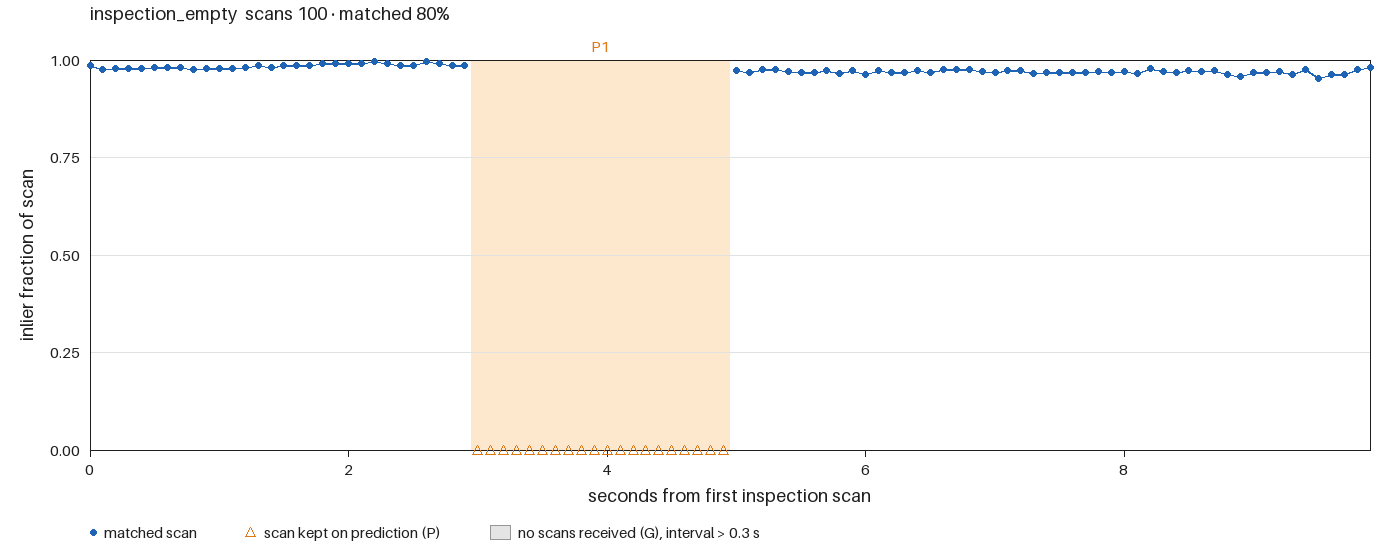
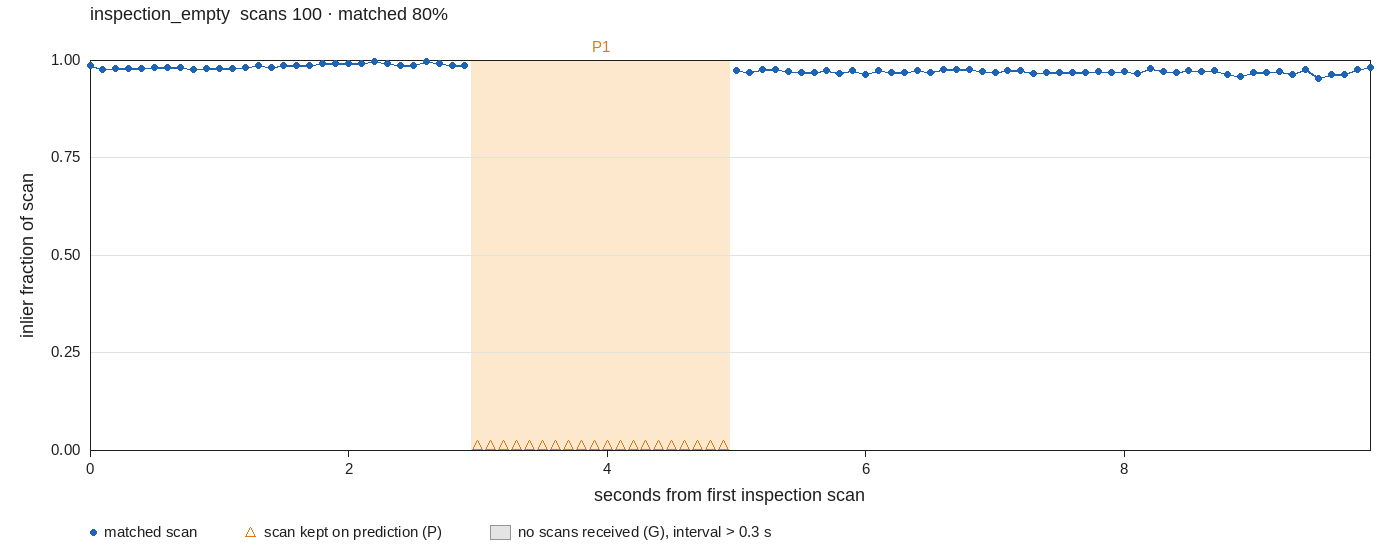
Не затирать вход и не соединять точки через разрыв на графике потерь
Метки и порог окна берутся по всей записи, обрезанные участки помечены.
Таблица участков пишется в <имя>.intervals.csv. CSV с BOM и ';' читается.
Порог разрыва можно задать явно (--gap-s). Pillow>=10.1 для шрифта по размеру.

diff --git a/mgts_nav/timeline.py b/mgts_nav/timeline.py
@@ -26,11 +26,16 @@ ORANGE_BAND, GREY_BAND, GRID = (253, 232, 205), (228, 228, 228), (225, 225, 225)
 def read_trajectory(path):
     """Rows of a localize trajectory.csv with their 1-based line numbers in the file."""
     rows = []
-    with Path(path).open(newline='', encoding='utf-8') as f:
-        reader = csv.DictReader(f)
+    # utf-8-sig: a CSV re-saved by Excel or PowerShell 5.1 starts with a BOM.
+    with Path(path).open(newline='', encoding='utf-8-sig') as f:
+        header = f.readline()
+        f.seek(0)
+        delimiter = ';' if header.count(';') > header.count(',') else ','
+        reader = csv.DictReader(f, delimiter=delimiter)
         missing = {'t', 'status', 'inlier_fraction'} - set(reader.fieldnames or ())
         if missing:
-            raise ValueError(f'{path} lacks columns {sorted(missing)}; use the output of localize or solve')
+            raise ValueError(f'{path} lacks columns {sorted(missing)} (header: {header.strip()!r}); '
+                             'use trajectory.csv written by localize or solve')
         for row in reader:
             rows.append(dict(line=reader.line_num, t=float(row['t']), status=row['status'],
                              inlier_fraction=float(row['inlier_fraction'])))
@@ -64,7 +69,7 @@ def intervals(rows, quality, t0=None):
 
 
 def _font(size):
-    for name in ('DejaVuSans.ttf', 'arial.ttf'):
+    for name in ('DejaVuSans.ttf', 'arial.ttf', 'LiberationSans-Regular.ttf'):
         try:
             return ImageFont.truetype(name, size)
         except OSError:
@@ -104,11 +109,14 @@ def render(rows, quality, found, output, title='', t0=None):
     draw = ImageDraw.Draw(image)
     small, normal = _font(15), _font(18)
 
+    def span(item):  # intervals clipped by a window still start and end inside the frame
+        return px(max(item['start_rel_s'], lo)), px(min(item['end_rel_s'], hi))
+
     for item in found:  # bands first so points stay on top
-        a, b = px(item['start_rel_s']), px(item['end_rel_s'])
+        a, b = span(item)
         if item['kind'] == 'prediction_run':
             half = max(3.0, (x1 - x0) / max(len(rows), 1) / 2)
-            draw.rectangle([a - half, y1, b + half, y0], fill=ORANGE_BAND)
+            draw.rectangle([max(a - half, x0), y1, min(b + half, x1), y0], fill=ORANGE_BAND)
         else:
             w, h = max(int(b - a), 1), y0 - y1
             band = Image.new('RGB', (w, h), GREY_BAND)
@@ -127,15 +135,25 @@ def render(rows, quality, found, output, title='', t0=None):
     label = Image.new('RGB', (y0 - y1, 24), 'white')
     ImageDraw.Draw(label).text(((y0 - y1) / 2, 12), 'inlier fraction of scan', fill=INK, font=normal, anchor='mm')
     image.paste(label.rotate(90, expand=True), (14, y1))
+    # Up to two label rows above the frame; a label that would overlap both is left to the CSV.
+    row_end = [-1e9, -1e9]
     for item in found:
-        a, b = px(item['start_rel_s']), px(item['end_rel_s'])
-        draw.text(((a + b) / 2, y1 - 4), item['label'], fill=ORANGE if item['label'][0] == 'P' else GREY,
-                  font=small, anchor='md')
+        a, b = span(item)
+        text = item['label'] + ('*' if item.get('clipped') else '')
+        w = draw.textlength(text, font=small)
+        x = min(max((a + b) / 2, x0 + w / 2), x1 - w / 2)
+        for level in (0, 1):
+            if x - w / 2 > row_end[level] + 4:
+                row_end[level] = x + w / 2
+                draw.text((x, y1 - 4 - 18 * level), text, fill=ORANGE if text[0] == 'P' else GREY,
+                          font=small, anchor='md')
+                break
 
     threshold = quality['gap_threshold_s']
     for prev, cur, a, b in zip(rows, rows[1:], rel, rel[1:]):
         joined = prev['status'] == cur['status'] == 'matched'
-        if joined and (threshold is None or b - a <= threshold):
+        # Without a cadence (fewer than three scans) no interval is known to be continuous.
+        if joined and threshold is not None and b - a <= threshold:
             draw.line([(px(a), py(prev['inlier_fraction'])), (px(b), py(cur['inlier_fraction']))],
                       fill=BLUE, width=2)
     for row, s in zip(rows, rel):
@@ -143,7 +161,7 @@ def render(rows, quality, found, output, title='', t0=None):
         if row['status'] == 'matched':
             draw.ellipse([x - 3, y - 3, x + 3, y + 3], fill=BLUE)
         else:
-            draw.polygon([(x, y - 5), (x - 5, y + 4), (x + 5, y + 4)], outline=ORANGE)
+            draw.polygon([(x, y - 10), (x - 5, y - 1), (x + 5, y - 1)], outline=ORANGE)  # stands on its value
 
     matched = quality['matched_scan_fraction']
     draw.text((x0, 20), f'{title}  scans {len(rows)} · matched {matched:.0%}', fill=INK, font=normal, anchor='ls')
@@ -163,30 +181,50 @@ def render(rows, quality, found, output, title='', t0=None):
 
 
 def write_intervals(found, path):
-    fields = ['label', 'kind', 'start_rel_s', 'end_rel_s', 'start_s', 'end_s', 'scans', 'first_line', 'last_line']
+    fields = ['label', 'kind', 'start_rel_s', 'end_rel_s', 'start_s', 'end_s', 'scans', 'first_line', 'last_line',
+              'clipped']
     with Path(path).open('w', newline='', encoding='utf-8') as f:
         writer = csv.DictWriter(f, fields, extrasaction='ignore')
         writer.writeheader()
         writer.writerows(found)
 
 
-def plot(trajectory, output, window=None, title=None):
-    """Write PNG and the interval table next to it; return the intervals."""
+def table_path(output):
+    output = Path(output)
+    return output.with_name(output.stem + '.intervals.csv')
+
+
+def plot(trajectory, output, window=None, title=None, gap_threshold_s=None):
+    """Write PNG and the interval table beside it; return the intervals.
+
+    Intervals, labels and the gap threshold always come from the whole record, so a
+    window shows the same P/G labels as the full plot; a clipped interval is marked.
+    """
+    trajectory, output = Path(trajectory), Path(output)
+    table = table_path(output)
+    for target in (output, table):
+        if target.resolve() == trajectory.resolve():
+            raise ValueError(f'Output {target} would overwrite the input trajectory')
     rows = read_trajectory(trajectory)
     t0 = rows[0]['t']
+    quality = inspection_quality([Estimate(r['t'], None, r['status'], r['inlier_fraction']) for r in rows],
+                                 gap_threshold_s=gap_threshold_s)
+    found = intervals(rows, quality, t0)
+    label = title if title is not None else str(trajectory.parent.name)
     if window is not None:
         start, end = window
-        rows = [row for row in rows if start <= row['t'] - t0 <= end]
-        if not rows:
+        shown = [row for row in rows if start <= row['t'] - t0 <= end]
+        if not shown:
             raise ValueError(f'No scans between {start} and {end} s from the first scan')
-    quality = inspection_quality([Estimate(r['t'], None, r['status'], r['inlier_fraction']) for r in rows])
-    found = intervals(rows, quality, t0)
-    output = Path(output)
-    label = title if title is not None else str(Path(trajectory).parent.name)
-    if window is not None:
+        lo, hi = shown[0]['t'] - t0, shown[-1]['t'] - t0
+        found = [item for item in found if item['end_rel_s'] >= lo and item['start_rel_s'] <= hi]
+        for item in found:
+            item['clipped'] = item['start_rel_s'] < lo or item['end_rel_s'] > hi
+        rows = shown
         label += f'  lines {rows[0]["line"]}-{rows[-1]["line"]}'
+        quality = dict(quality, matched_scan_fraction=sum(r['status'] == 'matched' for r in rows) / len(rows))
     render(rows, quality, found, output, label, t0)
-    write_intervals(found, output.with_suffix('.csv'))
+    write_intervals(found, table)
     return found
 
 
@@ -232,6 +270,8 @@ def main():
     parser.add_argument('--out', type=Path, help='PNG path; the interval table is written beside it as .csv')
     parser.add_argument('--from', dest='start', type=float, help='window start, s from the first scan')
     parser.add_argument('--to', dest='end', type=float, help='window end, s from the first scan')
+    parser.add_argument('--gap-s', type=float,
+                        help='gap threshold, s (default: three median scan intervals, as in summary.json)')
     parser.add_argument('--demo', type=Path, metavar='OUT',
                         help='build the synthetic demo and a copy with a lidar outage, plot both')
     args = parser.parse_args()
@@ -246,13 +286,16 @@ def main():
         if args.start is not None or args.end is not None:
             window = (args.start if args.start is not None else float('-inf'),
                       args.end if args.end is not None else float('inf'))
-        out = args.out or path.with_name('timeline.png')
-        found = plot(path, out, window)
-        print(f'{out}\n{out.with_suffix(".csv")}')
+        name = 'timeline.png' if window is None else ('timeline-' + ('start' if args.start is None else f'{args.start:g}') + '-'
+                                                 + ('end' if args.end is None else f'{args.end:g}') + '.png')
+        out = args.out or path.with_name(name)
+        found = plot(path, out, window, gap_threshold_s=args.gap_s)
+        print(f'{out}\n{table_path(out)}')
         for item in found:
-            print(f"{item['label']}: {item['start_rel_s']:.2f}-{item['end_rel_s']:.2f} s, "
+            print(f"{item['label']}{' (clipped)' if item.get('clipped') else ''}: "
+                  f"{item['start_rel_s']:.2f}-{item['end_rel_s']:.2f} s, "
                   f"lines {item['first_line']}-{item['last_line']} of {path}")
-    except (OSError, ValueError) as error:
+    except (OSError, ValueError, subprocess.CalledProcessError) as error:
         parser.exit(2, f'{error}\n')
 
 

diff --git a/tests/test_timeline.py b/tests/test_timeline.py
@@ -24,7 +24,7 @@ def test_intervals_name_prediction_runs_and_gaps_with_csv_lines(tmp_path):
         ('P1', 3, 4, 2), ('G1', 5, 6, 0)]
     assert found[0]['start_rel_s'] == pytest.approx(0.1)
     assert found[1]['end_rel_s'] == pytest.approx(1.3)
-    with (tmp_path / 'timeline.csv').open(encoding='utf-8') as f:
+    with (tmp_path / 'timeline.intervals.csv').open(encoding='utf-8') as f:
         table = list(csv.DictReader(f))
     assert [r['label'] for r in table] == ['P1', 'G1']
     # The listed lines really hold the interval boundaries in the source CSV.
@@ -72,3 +72,56 @@ def test_window_keeps_time_from_first_scan_of_the_record(tmp_path):
     path = write_csv(tmp_path / 'trajectory.csv', rows)
     found = timeline.plot(path, tmp_path / 'w.png', window=(2.0, 3.0))
     assert found[0]['start_rel_s'] == pytest.approx(2.5)
+
+
+def blue_between(png, t_a, t_b, t_span, value=0.5):
+    image = Image.open(png).convert('RGB')
+    width, height = image.size
+    x0, x1 = timeline.LEFT, width - timeline.RIGHT
+    y = round(timeline.TOP + (1 - value) * (height - timeline.BOTTOM - timeline.TOP))
+    x = round(x0 + ((t_a + t_b) / 2) / t_span * (x1 - x0))
+    return timeline.BLUE in [image.getpixel((x, yy)) for yy in range(y - 3, y + 4)]
+
+
+def test_two_scans_without_cadence_are_not_joined(tmp_path):
+    path = write_csv(tmp_path / 'two.csv', [(0.0, 'matched', 0.5), (10.0, 'matched', 0.5)])
+    timeline.plot(path, tmp_path / 'two.png')
+    assert not blue_between(tmp_path / 'two.png', 0, 10, 10)
+
+
+def test_explicit_gap_threshold_marks_gaps_in_short_records(tmp_path):
+    path = write_csv(tmp_path / 'three.csv', [(0.0, 'matched', 0.5), (0.1, 'matched', 0.5), (5.0, 'matched', 0.5)])
+    assert timeline.plot(path, tmp_path / 'a.png') == []
+    found = timeline.plot(path, tmp_path / 'b.png', gap_threshold_s=0.3)
+    assert [(i['label'], i['first_line'], i['last_line']) for i in found] == [('G1', 3, 4)]
+    assert not blue_between(tmp_path / 'b.png', 0.1, 5.0, 5.0)
+
+
+def test_outputs_never_overwrite_the_input(tmp_path):
+    path = write_csv(tmp_path / 'trajectory.csv', [(0.0, 'matched', 0.5), (0.1, 'matched', 0.5)])
+    before = path.read_bytes()
+    with pytest.raises(ValueError, match='overwrite'):
+        timeline.plot(path, tmp_path / 'trajectory.csv')
+    other = write_csv(tmp_path / 'run.intervals.csv', [(0.0, 'matched', 0.5)])
+    with pytest.raises(ValueError, match='overwrite'):
+        timeline.plot(other, tmp_path / 'run.png')
+    timeline.plot(path, tmp_path / 'timeline.png')
+    assert path.read_bytes() == before and (tmp_path / 'timeline.intervals.csv').exists()
+
+
+def test_window_keeps_labels_threshold_and_marks_clipped_intervals(tmp_path):
+    rows = [(t / 10, 'prediction_only' if t in (5, 6, 7, 20) else 'matched', 0.6) for t in range(40)]
+    rows = [r for r in rows if not 30 <= r[0] * 10 < 34]  # a gap 2.9 -> 3.4 s
+    path = write_csv(tmp_path / 'trajectory.csv', rows)
+    full = timeline.plot(path, tmp_path / 'full.png')
+    assert [i['label'] for i in full] == ['P1', 'P2', 'G1']
+    window = timeline.plot(path, tmp_path / 'win.png', window=(0.6, 3.0))
+    assert [(i['label'], i['clipped']) for i in window] == [('P1', True), ('P2', False), ('G1', True)]
+    assert (tmp_path / 'full.png').exists() and (tmp_path / 'full.intervals.csv').read_text(encoding='utf-8').count('\n') == 4
+
+
+def test_reads_csv_resaved_with_bom_and_semicolons(tmp_path):
+    text = 't;x;y;yaw;status;inlier_fraction\r\n0;0;0;0;matched;0.5\r\n0.1;0;0;0;prediction_only;0\r\n'
+    path = tmp_path / 'excel.csv'
+    path.write_bytes(text.encode('utf-8-sig'))
+    assert [i['label'] for i in timeline.plot(path, tmp_path / 'x.png')] == ['P1']

diff --git a/mgts_nav/quality.py b/mgts_nav/quality.py
@@ -5,8 +5,12 @@ from statistics import median
 import numpy as np
 
 
-def inspection_quality(estimates):
-    """Summarize the scan-rate output of track(); no reference poses are used."""
+def inspection_quality(estimates, gap_threshold_s=None):
+    """Summarize the scan-rate output of track(); no reference poses are used.
+
+    gap_threshold_s overrides the default of three median scan intervals, e.g. for short
+    records where the median does not describe the sensor rate.
+    """
     times = np.asarray([row.t for row in estimates], dtype=float)
     if not len(times) or not np.isfinite(times).all():
         raise ValueError('Inspection needs finite scan timestamps')
@@ -15,7 +19,12 @@ def inspection_quality(estimates):
         raise ValueError('Inspection scan timestamps must increase')
 
     # Gaps have no rows. Report them independently of consecutive rejected scans.
-    gap_threshold = 3 * float(np.median(intervals)) if len(intervals) >= 2 else None
+    if gap_threshold_s is not None:
+        if not gap_threshold_s > 0:
+            raise ValueError('Gap threshold must be positive')
+        gap_threshold = float(gap_threshold_s)
+    else:
+        gap_threshold = 3 * float(np.median(intervals)) if len(intervals) >= 2 else None
     gaps = []
     if gap_threshold is not None:
         for i in np.flatnonzero(intervals > gap_threshold):

diff --git a/docs/report.md b/docs/report.md
@@ -23,9 +23,9 @@
 
 ### График потерь локализации по времени
 
-`python -m mgts_nav.timeline out/RUN/inspection` читает `trajectory.csv` из `localize` или `solve` и сохраняет рядом `timeline.png` и `timeline.csv`. Эталон и данные о реальном маршруте не нужны. По горизонтали — секунды от первого скана инспекции, по вертикали — доля точек скана ближе 0,16 м к карте (`inlier_fraction`, шкала 0–1). Синие точки — принятые сканы. Линия соединяет только соседние принятые сканы без разрыва между ними. Оранжевые треугольники на оранжевой полосе `P1`, `P2`… — полученные сканы, оставленные на прогнозе. Серая штриховка `G1`, `G2`… — интервал без сканов длиннее порога `gap_threshold_s`, по умолчанию три медианных периода. Пороги и участки совпадают с `quality` в `summary.json`, потому что считаются той же функцией.
+`python -m mgts_nav.timeline out/RUN/inspection` читает `trajectory.csv` из `localize` или `solve` и сохраняет рядом `timeline.png` и `timeline.intervals.csv`. Эталон и данные о реальном маршруте не нужны. По горизонтали — секунды от первого скана инспекции, по вертикали — доля точек скана ближе 0,16 м к карте (`inlier_fraction`, шкала 0–1). Синие точки — принятые сканы. Линия соединяет только соседние принятые сканы без разрыва между ними. Оранжевые треугольники на оранжевой полосе `P1`, `P2`… — полученные сканы, оставленные на прогнозе. Серая штриховка `G1`, `G2`… — интервал без сканов длиннее порога `gap_threshold_s`, по умолчанию три медианных периода. Порог и участки совпадают с `quality` в `summary.json`, потому что считаются той же функцией по всей записи. Если сканов меньше трёх, период не определён: точки рисуются без соединительной линии. Для короткой записи, где медиана не отражает частоту лидара, порог задаётся явно: `--gap-s 0.3`.
 
-`timeline.csv` перечисляет участки: метка, тип (`prediction_run` или `scan_gap`), начало и конец в секундах от первого скана и в исходном времени, число сканов и номера строк `first_line`–`last_line` в `trajectory.csv`. Номер строки считается с единицы, первая строка — заголовок. У разрыва указаны строки двух сканов, которые его ограничивают. Чтобы рассмотреть участок крупнее, задайте окно в секундах от первого скана: `--from 2.5 --to 5.5 --out out/RUN/p1.png`. Время на оси остаётся отсчитанным от начала записи, в заголовке выводятся номера строк окна. `--out` задаёт путь PNG, таблица сохраняется рядом с тем же именем. На один скан график тоже строится.
+`timeline.intervals.csv` перечисляет участки: метка, тип (`prediction_run` или `scan_gap`), начало и конец в секундах от первого скана и в исходном времени, число сканов и номера строк `first_line`–`last_line` в `trajectory.csv`. Номер строки считается с единицы, первая строка — заголовок. У разрыва указаны строки двух сканов, которые его ограничивают. Чтобы рассмотреть участок крупнее, задайте окно в секундах от первого скана: `--from 2.5 --to 5.5`. Без `--out` окно сохраняется в `timeline-2.5-5.5.png` и не затирает общий график. Время на оси, метки `P`/`G` и порог разрыва остаются такими же, как на графике всей записи. Участок, обрезанный границей окна, помечен звёздочкой, а в таблице — `clipped=True`. В заголовке выводятся номера строк окна. `--out` задаёт путь PNG, таблица сохраняется рядом как `<имя>.intervals.csv`. Команда отказывается писать поверх входного CSV. Файл, пересохранённый в Excel или PowerShell с BOM или разделителем `;`, тоже читается. На один скан график строится.
 
 Пример для защиты собирается одной командой из корня MGTS в Windows PowerShell:
 
@@ -33,7 +33,7 @@
 python -m mgts_nav.timeline --demo out/timeline-demo
 ```
 
-Команда генерирует синтетические записи, строит карту и локализует три варианта одной инспекции: без изменений, с удалёнными сообщениями лидара на 3–5 с и с пустыми сообщениями лидара на тех же секундах. В `inspection/`, `inspection_gap/` и `inspection_empty/` сохраняются `timeline.png` и `timeline.csv`. Последний вариант даёт участок `P1` из 20 сканов на прогнозе, строки 32–51; вариант с удалёнными сообщениями — разрыв `G1` 2,1 с между строками 31 и 32. Прогон занимает несколько секунд. Команды проверены на Linux, под Windows PowerShell не запускались.
+Команда генерирует синтетические записи, строит карту и локализует три варианта одной инспекции: без изменений, с удалёнными сообщениями лидара на 3–5 с и с пустыми сообщениями лидара на тех же секундах. В `inspection/`, `inspection_gap/` и `inspection_empty/` сохраняются `timeline.png` и `timeline.intervals.csv`. Последний вариант даёт участок `P1` из 20 сканов на прогнозе, строки 32–51; вариант с удалёнными сообщениями — разрыв `G1` 2,1 с между строками 31 и 32. Прогон занимает несколько секунд. Команды проверены на Linux, под Windows PowerShell не запускались.
 
 ![Пустые сообщения лидара: сканы на прогнозе](timeline-empty-lidar.png)
 
